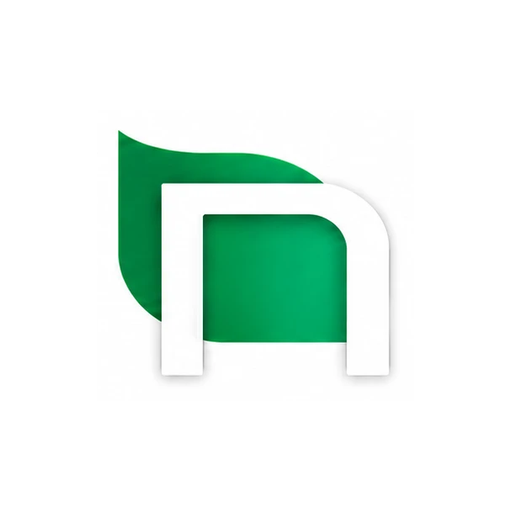
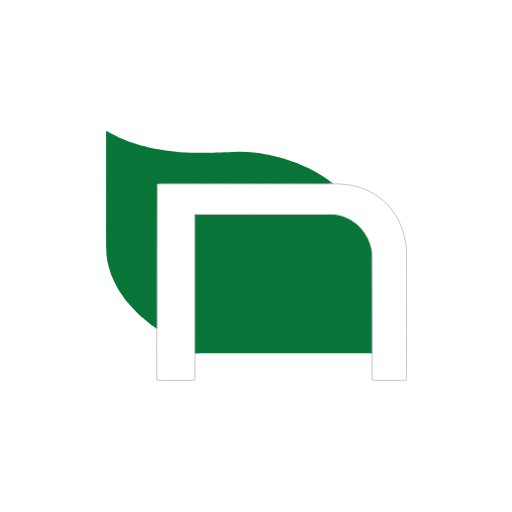
Ícones de app para o celular com o símbolo da Nadiana
- Ícones gerados do símbolo oficial da base (nadiana-simbolo.svg), em fundo branco:
  180 px para o iPhone e 192/512 px para o Android, com o símbolo dentro da área
  segura do recorte redondo
- Início, Painel e Lançamentos ganham ícone de tela inicial e manifesto com o nome
  curto de cada app (abrem no navegador, como hoje)
- Experimentos e Tabuleiro trocam o ícone antigo; sw.js v10 guarda o ícone novo

Claude-Session: https://claude.ai/code/session_011WKXe4YcCma5d7AJvfKorn

Changed region(s): [[0.1875, 0.25, 0.7812, 0.75]]

diff --git a/experimentos/sw.js b/experimentos/sw.js
@@ -1,8 +1,8 @@
 // Guarda o app no celular para abrir sem sinal. Mude VERSAO a cada publicação.
-const VERSAO='v9';
+const VERSAO='v10';
 const CACHE='agenda-campo-'+VERSAO;
 // A base de design Nadiana vem do endereço publicado e também fica guardada aqui.
-const BASE=["./", "./index.html", "./tabuleiro.html", "./manifest.webmanifest", "./icon-192.png", "./icon-512.png", "https://fabianodsf12-beep.github.io/nadiana-design/v1/tokens.css", "https://fabianodsf12-beep.github.io/nadiana-design/v1/componentes.css", "https://fabianodsf12-beep.github.io/nadiana-design/v1/icones.js", "https://fabianodsf12-beep.github.io/nadiana-design/v1/nadiana.js", "https://fabianodsf12-beep.github.io/nadiana-design/v1/logos/nadiana-simbolo.svg", "https://fabianodsf12-beep.github.io/nadiana-design/v1/logos/nadiana-logo-vertical.svg", "https://fabianodsf12-beep.github.io/nadiana-design/v1/fonts/Barlow-400.woff2", "https://fabianodsf12-beep.github.io/nadiana-design/v1/fonts/Barlow-500.woff2", "https://fabianodsf12-beep.github.io/nadiana-design/v1/fonts/Barlow-600.woff2", "https://fabianodsf12-beep.github.io/nadiana-design/v1/fonts/BarlowCondensed-500.woff2", "https://fabianodsf12-beep.github.io/nadiana-design/v1/fonts/BarlowCondensed-600.woff2", "https://fabianodsf12-beep.github.io/nadiana-design/v1/fonts/BarlowCondensed-700.woff2"];
+const BASE=["./", "./index.html", "./tabuleiro.html", "./manifest.webmanifest", "./icon-180.png", "./icon-192.png", "./icon-512.png", "https://fabianodsf12-beep.github.io/nadiana-design/v1/tokens.css", "https://fabianodsf12-beep.github.io/nadiana-design/v1/componentes.css", "https://fabianodsf12-beep.github.io/nadiana-design/v1/icones.js", "https://fabianodsf12-beep.github.io/nadiana-design/v1/nadiana.js", "https://fabianodsf12-beep.github.io/nadiana-design/v1/logos/nadiana-simbolo.svg", "https://fabianodsf12-beep.github.io/nadiana-design/v1/logos/nadiana-logo-vertical.svg", "https://fabianodsf12-beep.github.io/nadiana-design/v1/fonts/Barlow-400.woff2", "https://fabianodsf12-beep.github.io/nadiana-design/v1/fonts/Barlow-500.woff2", "https://fabianodsf12-beep.github.io/nadiana-design/v1/fonts/Barlow-600.woff2", "https://fabianodsf12-beep.github.io/nadiana-design/v1/fonts/BarlowCondensed-500.woff2", "https://fabianodsf12-beep.github.io/nadiana-design/v1/fonts/BarlowCondensed-600.woff2", "https://fabianodsf12-beep.github.io/nadiana-design/v1/fonts/BarlowCondensed-700.woff2"];
 self.addEventListener('install',e=>{e.waitUntil(caches.open(CACHE).then(c=>
   // o app precisa entrar inteiro; a base de design entra arquivo por arquivo (se um falhar, é guardado no primeiro uso)
   c.addAll(BASE.filter(u=>u.startsWith('./'))).then(()=>Promise.all(BASE.filter(u=>!u.startsWith('./')).map(u=>c.add(u).catch(()=>{}))))

diff --git a/experimentos/tabuleiro.html b/experimentos/tabuleiro.html
@@ -7,6 +7,8 @@
 <title>Tabuleiro – Experimentos</title>
 <!-- Planejamento de ensaio em tabuleiro (xadrez) para aplicação com prescrição. Base Nadiana: https://github.com/fabianodsf12-beep/nadiana-design/blob/main/v1/README.md -->
 <link rel="icon" href="icon-192.png">
+<link rel="apple-touch-icon" href="icon-180.png">
+<link rel="manifest" href="manifest.webmanifest">
 <link rel="stylesheet" href="https://fabianodsf12-beep.github.io/nadiana-design/v1/tokens.css">
 <link rel="stylesheet" href="https://fabianodsf12-beep.github.io/nadiana-design/v1/componentes.css">
 <link rel="stylesheet" href="https://cdnjs.cloudflare.com/ajax/libs/leaflet/1.9.4/leaflet.min.css">

diff --git a/painel.html b/painel.html
@@ -7,6 +7,8 @@
 <meta name="theme-color" content="#18211D" media="(prefers-color-scheme: dark)">
 <title>Painel de aplicações – Fazenda Reata, Soja 26/27</title>
 <link rel="icon" href="https://fabianodsf12-beep.github.io/nadiana-design/v1/logos/nadiana-simbolo.png">
+<link rel="apple-touch-icon" href="icones/icone-180.png">
+<link rel="manifest" href="icones/painel.webmanifest">
 <link rel="stylesheet" href="https://fabianodsf12-beep.github.io/nadiana-design/v1/tokens.css">
 <link rel="stylesheet" href="https://fabianodsf12-beep.github.io/nadiana-design/v1/componentes.css">
 <script src="https://fabianodsf12-beep.github.io/nadiana-design/v1/tokens.js"></script>

diff --git a/lancar.html b/lancar.html
@@ -7,6 +7,8 @@
 <meta name="theme-color" content="#18211D" media="(prefers-color-scheme: dark)">
 <title>Lançamentos – Aplicações Reata</title>
 <link rel="icon" href="https://fabianodsf12-beep.github.io/nadiana-design/v1/logos/nadiana-simbolo.png">
+<link rel="apple-touch-icon" href="icones/icone-180.png">
+<link rel="manifest" href="icones/lancar.webmanifest">
 <link rel="stylesheet" href="https://fabianodsf12-beep.github.io/nadiana-design/v1/tokens.css">
 <link rel="stylesheet" href="https://fabianodsf12-beep.github.io/nadiana-design/v1/componentes.css">
 <script src="https://fabianodsf12-beep.github.io/nadiana-design/v1/tokens.js"></script>

diff --git a/index.html b/index.html
@@ -6,6 +6,8 @@
 <meta name="theme-color" content="#01252B">
 <title>Aplicações – Fazenda Reata</title>
 <link rel="icon" href="https://fabianodsf12-beep.github.io/nadiana-design/v1/logos/nadiana-simbolo.png">
+<link rel="apple-touch-icon" href="icones/icone-180.png">
+<link rel="manifest" href="icones/inicio.webmanifest">
 <link rel="stylesheet" href="https://fabianodsf12-beep.github.io/nadiana-design/v1/tokens.css">
 <link rel="stylesheet" href="https://fabianodsf12-beep.github.io/nadiana-design/v1/componentes.css">
 <script src="https://fabianodsf12-beep.github.io/nadiana-design/v1/icones.js"></script>

diff --git a/experimentos/index.html b/experimentos/index.html
@@ -8,7 +8,7 @@
 <meta name="apple-mobile-web-app-title" content="Experimentos">
 <link rel="manifest" href="manifest.webmanifest">
 <link rel="icon" href="icon-192.png">
-<link rel="apple-touch-icon" href="icon-192.png">
+<link rel="apple-touch-icon" href="icon-180.png">
 <title>Experimentos 26/27 | Nadiana Agropecuária</title>
 <link rel="stylesheet" href="https://fabianodsf12-beep.github.io/nadiana-design/v1/tokens.css">
 <link rel="stylesheet" href="https://fabianodsf12-beep.github.io/nadiana-design/v1/componentes.css">
